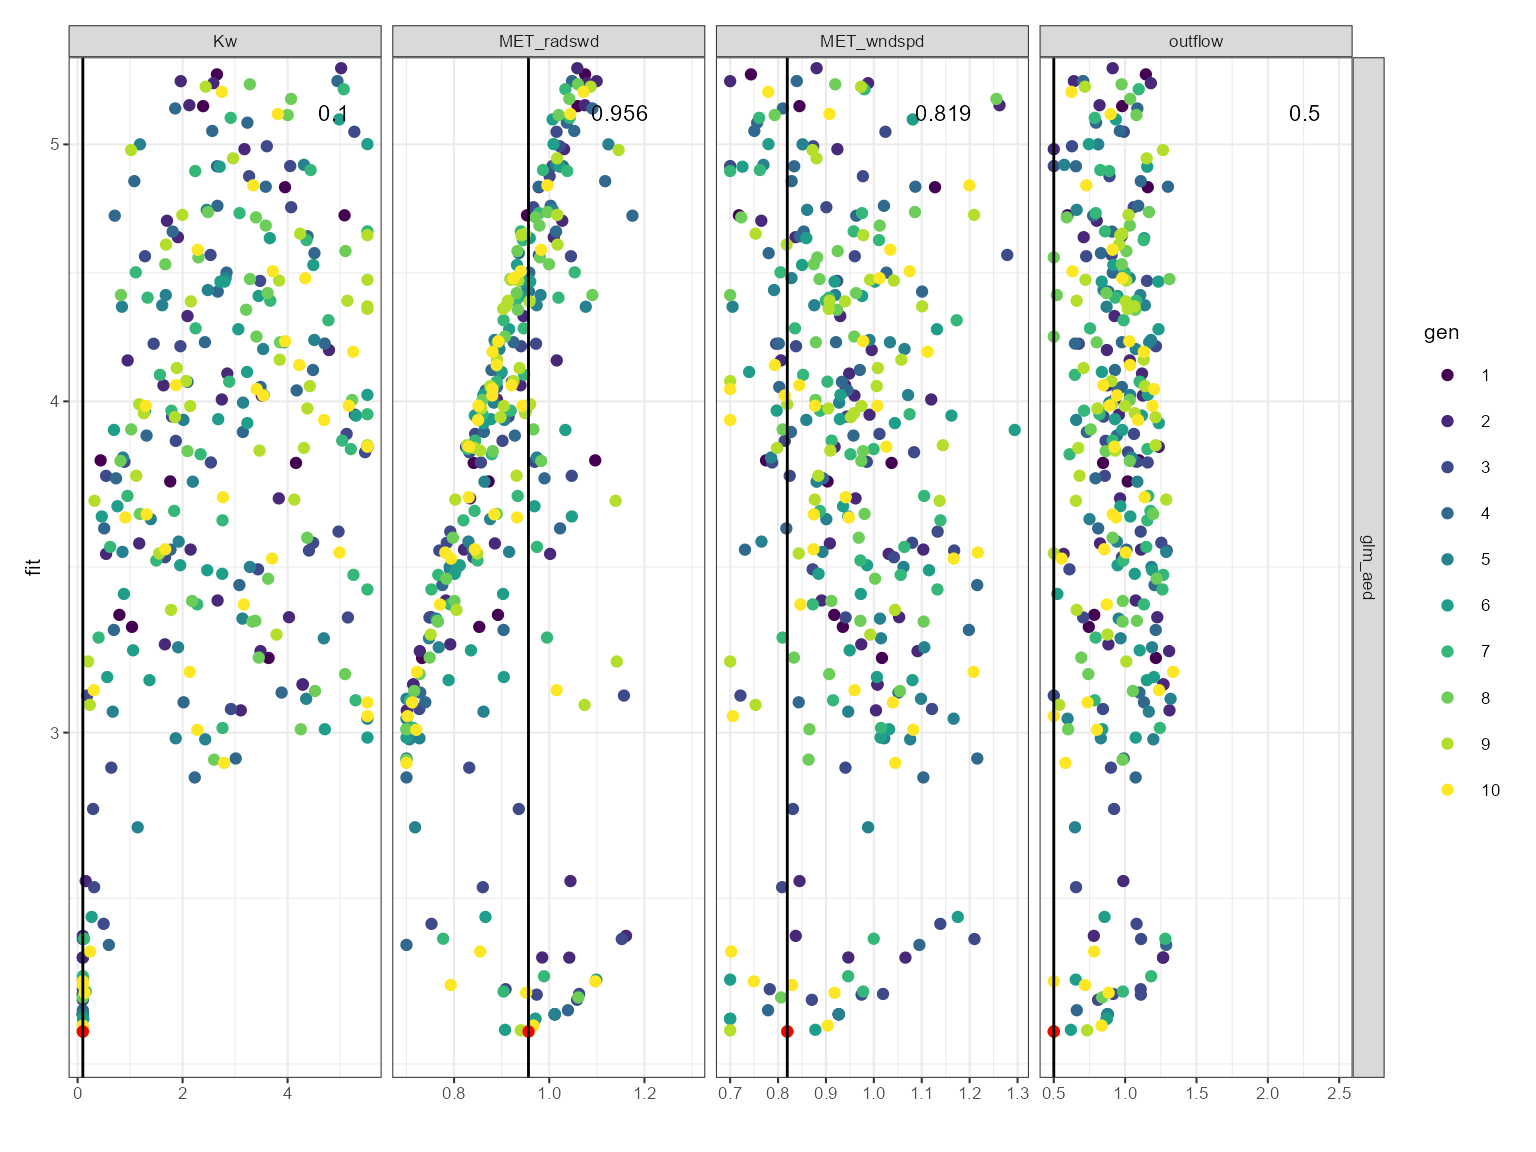
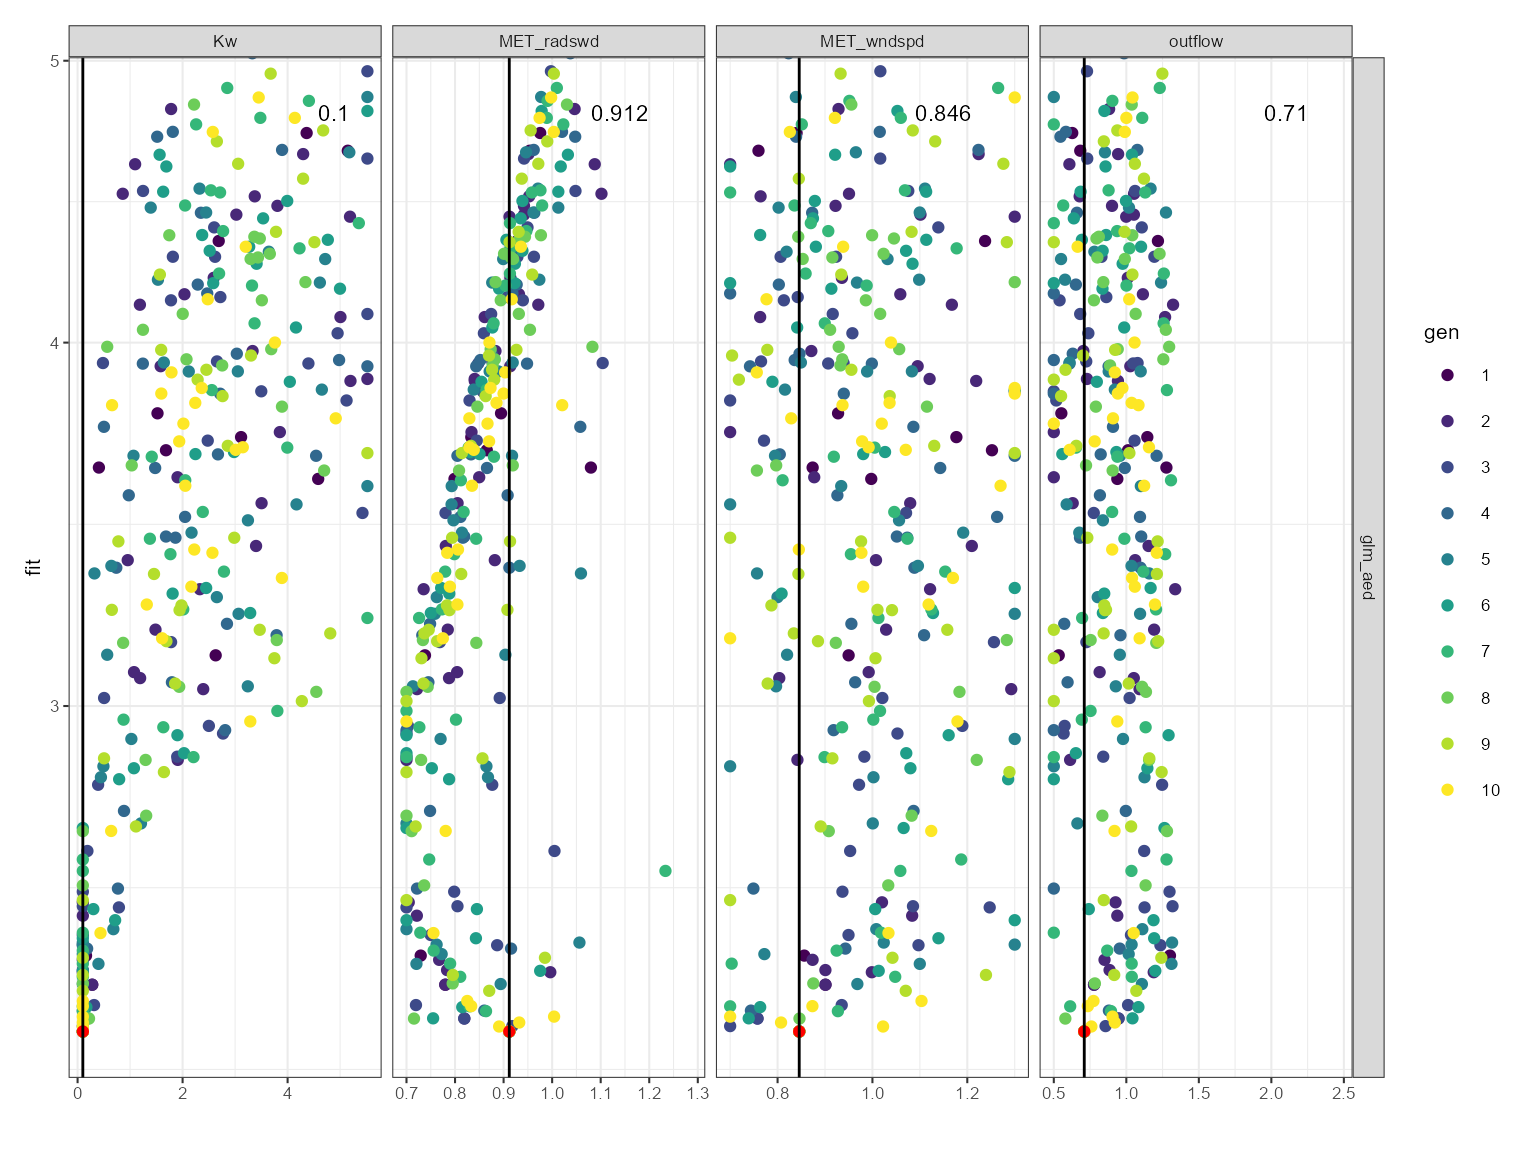
Deploying to gh-pages from @ limnotrack/aemetools@b9abb443e278f7c4fc6b141652a75b2cf75a3b43 🚀

diff --git a/articles/calibrate-aeme.html b/articles/calibrate-aeme.html
@@ -121,9 +121,9 @@ make sure the current model setup is working.</p>
 <code class="sourceCode R"><span><span class="va">aeme_data</span> <span class="op">&lt;-</span> <span class="fu"><a href="https://rdrr.io/pkg/AEME/man/run_aeme.html" class="external-link">run_aeme</a></span><span class="op">(</span>aeme_data <span class="op">=</span> <span class="va">aeme_data</span>, model <span class="op">=</span> <span class="va">model</span>,</span>
 <span>                      verbose <span class="op">=</span> <span class="cn">FALSE</span>, mod_ctrls <span class="op">=</span> <span class="va">mod_ctrls</span>,</span>
 <span>                      path <span class="op">=</span> <span class="va">path</span><span class="op">)</span></span>
-<span><span class="co">#&gt; Running models... (Have you tried parallelizing?) [2023-11-08 02:36:23.91862]</span></span>
-<span><span class="co">#&gt; GLM-AED run successful! [2023-11-08 02:36:24.666513]</span></span>
-<span><span class="co">#&gt; Model run complete![2023-11-08 02:36:24.667352]</span></span>
+<span><span class="co">#&gt; Running models... (Have you tried parallelizing?) [2023-11-08 02:48:46.529333]</span></span>
+<span><span class="co">#&gt; GLM-AED run successful! [2023-11-08 02:48:47.247018]</span></span>
+<span><span class="co">#&gt; Model run complete![2023-11-08 02:48:47.247831]</span></span>
 <span><span class="co">#&gt; Retrieving and formatting temp for model glm_aed</span></span>
 <span><span class="co">#&gt; Retrieving and formatting salt for model glm_aed</span></span>
 <span><span class="fu"><a href="https://rdrr.io/r/graphics/plot.default.html" class="external-link">plot</a></span><span class="op">(</span><span class="va">aeme_data</span><span class="op">)</span></span></code></pre></div>
@@ -228,9 +228,9 @@ but the model output is generate within the lake folder.</p>
 <div class="sourceCode" id="cb7"><pre class="downlit sourceCode r">
 <code class="sourceCode R"><span><span class="fu"><a href="../reference/run_aeme_param.html">run_aeme_param</a></span><span class="op">(</span>aeme_data <span class="op">=</span> <span class="va">aeme_data</span>, param <span class="op">=</span> <span class="va">aeme_parameters</span>,</span>
 <span>                 model <span class="op">=</span> <span class="va">model</span>, path <span class="op">=</span> <span class="va">path</span>, mod_ctrls <span class="op">=</span> <span class="va">mod_ctrls</span><span class="op">)</span></span>
-<span><span class="co">#&gt; Running models... (Have you tried parallelizing?) [2023-11-08 02:36:36.734724]</span></span>
-<span><span class="co">#&gt; GLM-AED run successful! [2023-11-08 02:36:37.461097]</span></span>
-<span><span class="co">#&gt; Model run complete![2023-11-08 02:36:37.461973]</span></span></code></pre></div>
+<span><span class="co">#&gt; Running models... (Have you tried parallelizing?) [2023-11-08 02:48:50.964498]</span></span>
+<span><span class="co">#&gt; GLM-AED run successful! [2023-11-08 02:48:51.687503]</span></span>
+<span><span class="co">#&gt; Model run complete![2023-11-08 02:48:51.688245]</span></span></code></pre></div>
 </div>
 <div class="section level2">
 <h2 id="calibration-setup">Calibration setup<a class="anchor" aria-label="anchor" href="#calibration-setup"></a>
@@ -364,79 +364,79 @@ values.</p>
 <span>                   param <span class="op">=</span> <span class="va">aeme_parameters</span>, model <span class="op">=</span> <span class="va">model</span>,</span>
 <span>                   mod_ctrls <span class="op">=</span> <span class="va">mod_ctrls</span>, FUN <span class="op">=</span> <span class="va">fit</span>, ctrl <span class="op">=</span> <span class="va">ctrl</span>,</span>
 <span>                   vars_sim <span class="op">=</span> <span class="va">vars_sim</span>, weights <span class="op">=</span> <span class="va">weights</span><span class="op">)</span></span>
-<span><span class="co">#&gt; Extracting indices for modelled variables [2023-11-08 02:36:37.792926]</span></span>
-<span><span class="co">#&gt; Complete! [2023-11-08 02:36:38.676282]</span></span>
+<span><span class="co">#&gt; Extracting indices for modelled variables [2023-11-08 02:48:52.016475]</span></span>
+<span><span class="co">#&gt; Complete! [2023-11-08 02:48:52.884192]</span></span>
 <span><span class="co">#&gt; Calibrating in parallel using 1 cores...</span></span>
-<span><span class="co">#&gt; Starting generation 1/10, 40 members. [2023-11-08 02:36:38.94474]</span></span>
+<span><span class="co">#&gt; Starting generation 1/10, 40 members. [2023-11-08 02:48:53.138807]</span></span>
 <span><span class="co">#&gt;        light.Kw MET_wndspd MET_radswd outflow</span></span>
-<span><span class="co">#&gt; mean      2.820     1.0010     0.9999  1.5010</span></span>
-<span><span class="co">#&gt; median    2.768     0.9963     1.0000  1.5010</span></span>
-<span><span class="co">#&gt; sd        1.600     0.1755     0.1755  0.5811</span></span>
-<span><span class="co">#&gt; Best fit: 3.128 (sd: 323.705)</span></span>
-<span><span class="co">#&gt;             Parameters: [4.287, 1.008, 0.714, 1.267]</span></span>
+<span><span class="co">#&gt; mean      2.805     1.0020     1.0000  1.4940</span></span>
+<span><span class="co">#&gt; median    2.750     1.0020     1.0020  1.4870</span></span>
+<span><span class="co">#&gt; sd        1.583     0.1752     0.1742  0.5836</span></span>
+<span><span class="co">#&gt; Best fit: 2.406 (sd: 327.222)</span></span>
+<span><span class="co">#&gt;             Parameters: [0.278, 0.901, 0.78, 0.778]</span></span>
 <span><span class="co">#&gt; Survival rate: 1</span></span>
-<span><span class="co">#&gt; Starting generation 2/10, 40 members. [2023-11-08 02:37:14.639307]</span></span>
+<span><span class="co">#&gt; Starting generation 2/10, 40 members. [2023-11-08 02:49:28.194054]</span></span>
 <span><span class="co">#&gt;        light.Kw MET_wndspd MET_radswd outflow</span></span>
-<span><span class="co">#&gt; mean      2.449     0.9720     0.9304  1.0890</span></span>
-<span><span class="co">#&gt; median    2.227     0.9606     0.9427  1.0210</span></span>
-<span><span class="co">#&gt; sd        1.579     0.1285     0.1268  0.3433</span></span>
-<span><span class="co">#&gt; Best fit: 2.3491 (sd: 211.75)</span></span>
+<span><span class="co">#&gt; mean      2.159     1.0080     0.8562   1.052</span></span>
+<span><span class="co">#&gt; median    1.906     1.0140     0.8452   1.005</span></span>
+<span><span class="co">#&gt; sd        1.694     0.1682     0.1040   0.386</span></span>
+<span><span class="co">#&gt; Best fit: 2.3426 (sd: 208.55)</span></span>
 <span><span class="co">#&gt; Survival rate: 1</span></span>
-<span><span class="co">#&gt; Starting generation 3/10, 40 members. [2023-11-08 02:37:50.617803]</span></span>
+<span><span class="co">#&gt; Starting generation 3/10, 40 members. [2023-11-08 02:50:03.781285]</span></span>
 <span><span class="co">#&gt;        light.Kw MET_wndspd MET_radswd outflow</span></span>
-<span><span class="co">#&gt; mean      2.258     0.9630     0.9394  1.0070</span></span>
-<span><span class="co">#&gt; median    2.108     0.9518     0.9678  0.9839</span></span>
-<span><span class="co">#&gt; sd        1.793     0.1432     0.1142  0.3150</span></span>
-<span><span class="co">#&gt; Best fit: 2.3491 (sd: 164.33)</span></span>
+<span><span class="co">#&gt; mean      2.189     0.9840     0.8795  0.9802</span></span>
+<span><span class="co">#&gt; median    1.798     0.9648     0.8767  0.9791</span></span>
+<span><span class="co">#&gt; sd        1.898     0.1522     0.1173  0.3402</span></span>
+<span><span class="co">#&gt; Best fit: 2.3186 (sd: 184.82)</span></span>
 <span><span class="co">#&gt; Survival rate: 1</span></span>
-<span><span class="co">#&gt; Starting generation 4/10, 40 members. [2023-11-08 02:38:27.390074]</span></span>
+<span><span class="co">#&gt; Starting generation 4/10, 40 members. [2023-11-08 02:50:40.233365]</span></span>
 <span><span class="co">#&gt;        light.Kw MET_wndspd MET_radswd outflow</span></span>
-<span><span class="co">#&gt; mean      2.437     0.9243     0.9315  1.0290</span></span>
-<span><span class="co">#&gt; median    2.610     0.9238     0.9318  0.9762</span></span>
-<span><span class="co">#&gt; sd        1.407     0.1395     0.1318  0.3078</span></span>
-<span><span class="co">#&gt; Best fit: 2.3491 (sd: 194.6)</span></span>
+<span><span class="co">#&gt; mean      2.024     0.9821     0.8777  0.9760</span></span>
+<span><span class="co">#&gt; median    1.805     0.9596     0.8609  0.9314</span></span>
+<span><span class="co">#&gt; sd        1.586     0.1586     0.1001  0.4183</span></span>
+<span><span class="co">#&gt; Best fit: 2.3186 (sd: 241.56)</span></span>
 <span><span class="co">#&gt; Survival rate: 1</span></span>
-<span><span class="co">#&gt; Starting generation 5/10, 40 members. [2023-11-08 02:39:03.962272]</span></span>
+<span><span class="co">#&gt; Starting generation 5/10, 40 members. [2023-11-08 02:51:16.673802]</span></span>
 <span><span class="co">#&gt;        light.Kw MET_wndspd MET_radswd outflow</span></span>
-<span><span class="co">#&gt; mean      2.566     0.9263     0.9203  1.0250</span></span>
-<span><span class="co">#&gt; median    2.470     0.9230     0.8918  1.0400</span></span>
-<span><span class="co">#&gt; sd        1.479     0.1228     0.1467  0.2882</span></span>
-<span><span class="co">#&gt; Best fit: 2.3399 (sd: 172.29)</span></span>
+<span><span class="co">#&gt; mean      2.232     0.9713     0.8807  0.9654</span></span>
+<span><span class="co">#&gt; median    2.144     0.9785     0.8858  0.9968</span></span>
+<span><span class="co">#&gt; sd        1.742     0.1718     0.1111  0.2709</span></span>
+<span><span class="co">#&gt; Best fit: 2.3186 (sd: 139.44)</span></span>
 <span><span class="co">#&gt; Survival rate: 1</span></span>
-<span><span class="co">#&gt; Starting generation 6/10, 40 members. [2023-11-08 02:39:40.490667]</span></span>
+<span><span class="co">#&gt; Starting generation 6/10, 40 members. [2023-11-08 02:51:52.908491]</span></span>
 <span><span class="co">#&gt;        light.Kw MET_wndspd MET_radswd outflow</span></span>
-<span><span class="co">#&gt; mean      2.489     0.9446     0.9307  1.0690</span></span>
-<span><span class="co">#&gt; median    2.574     0.9411     0.9345  0.9732</span></span>
-<span><span class="co">#&gt; sd        1.774     0.1398     0.1147  0.3872</span></span>
-<span><span class="co">#&gt; Best fit: 2.3143 (sd: 199.18)</span></span>
+<span><span class="co">#&gt; mean      2.096     0.9794     0.8703  1.0560</span></span>
+<span><span class="co">#&gt; median    2.125     0.9664     0.8708  0.9801</span></span>
+<span><span class="co">#&gt; sd        1.531     0.1788     0.1080  0.4118</span></span>
+<span><span class="co">#&gt; Best fit: 2.3186 (sd: 239.17)</span></span>
 <span><span class="co">#&gt; Survival rate: 1</span></span>
-<span><span class="co">#&gt; Starting generation 7/10, 40 members. [2023-11-08 02:40:16.422405]</span></span>
+<span><span class="co">#&gt; Starting generation 7/10, 40 members. [2023-11-08 02:52:28.968475]</span></span>
 <span><span class="co">#&gt;        light.Kw MET_wndspd MET_radswd outflow</span></span>
-<span><span class="co">#&gt; mean      2.819     0.9447    0.89740  1.0540</span></span>
-<span><span class="co">#&gt; median    2.760     0.9488    0.90400  1.0860</span></span>
-<span><span class="co">#&gt; sd        1.785     0.1095    0.09297  0.2738</span></span>
-<span><span class="co">#&gt; Best fit: 2.3143 (sd: 202.02)</span></span>
+<span><span class="co">#&gt; mean      2.184     0.9846     0.8779  0.9747</span></span>
+<span><span class="co">#&gt; median    2.233     0.9948     0.8642  0.9791</span></span>
+<span><span class="co">#&gt; sd        1.575     0.1488     0.1200  0.3221</span></span>
+<span><span class="co">#&gt; Best fit: 2.3186 (sd: 130.84)</span></span>
 <span><span class="co">#&gt; Survival rate: 1</span></span>
-<span><span class="co">#&gt; Starting generation 8/10, 40 members. [2023-11-08 02:40:52.524188]</span></span>
+<span><span class="co">#&gt; Starting generation 8/10, 40 members. [2023-11-08 02:53:05.038968]</span></span>
 <span><span class="co">#&gt;        light.Kw MET_wndspd MET_radswd outflow</span></span>
-<span><span class="co">#&gt; mean      2.904     0.9419     0.8941  1.0640</span></span>
-<span><span class="co">#&gt; median    3.307     0.9238     0.9127  1.0200</span></span>
-<span><span class="co">#&gt; sd        1.541     0.1156     0.1277  0.4395</span></span>
-<span><span class="co">#&gt; Best fit: 2.3143 (sd: 223.36)</span></span>
+<span><span class="co">#&gt; mean      2.155     0.9833     0.8770  1.0850</span></span>
+<span><span class="co">#&gt; median    2.030     0.9639     0.8827  1.0550</span></span>
+<span><span class="co">#&gt; sd        1.556     0.1357     0.1193  0.2981</span></span>
+<span><span class="co">#&gt; Best fit: 2.3186 (sd: 225.33)</span></span>
 <span><span class="co">#&gt; Survival rate: 1</span></span>
-<span><span class="co">#&gt; Starting generation 9/10, 40 members. [2023-11-08 02:41:28.799172]</span></span>
+<span><span class="co">#&gt; Starting generation 9/10, 40 members. [2023-11-08 02:53:40.373075]</span></span>
 <span><span class="co">#&gt;        light.Kw MET_wndspd MET_radswd outflow</span></span>
-<span><span class="co">#&gt; mean      2.767     0.9142     0.9534  0.9372</span></span>
-<span><span class="co">#&gt; median    2.298     0.9084     0.9363  0.9614</span></span>
-<span><span class="co">#&gt; sd        1.768     0.1251     0.1065  0.2590</span></span>
-<span><span class="co">#&gt; Best fit: 2.3143 (sd: 130.73)</span></span>
+<span><span class="co">#&gt; mean      2.403     0.9938    0.85080  0.9352</span></span>
+<span><span class="co">#&gt; median    2.346     0.9995    0.85980  0.9304</span></span>
+<span><span class="co">#&gt; sd        1.506     0.1857    0.09963  0.2834</span></span>
+<span><span class="co">#&gt; Best fit: 2.3186 (sd: 146.54)</span></span>
 <span><span class="co">#&gt; Survival rate: 1</span></span>
-<span><span class="co">#&gt; Starting generation 10/10, 40 members. [2023-11-08 02:42:05.530539]</span></span>
+<span><span class="co">#&gt; Starting generation 10/10, 40 members. [2023-11-08 02:54:17.2222]</span></span>
 <span><span class="co">#&gt;        light.Kw MET_wndspd MET_radswd outflow</span></span>
-<span><span class="co">#&gt; mean      2.856     0.9432     0.8901  0.9106</span></span>
-<span><span class="co">#&gt; median    3.148     0.9446     0.8808  0.9048</span></span>
-<span><span class="co">#&gt; sd        1.817     0.1529     0.1250  0.2532</span></span>
-<span><span class="co">#&gt; Best fit: 2.3143 (sd: 128.6)</span></span>
+<span><span class="co">#&gt; mean      2.105     1.0090    0.87570  1.0360</span></span>
+<span><span class="co">#&gt; median    2.195     1.0060    0.87200  1.0100</span></span>
+<span><span class="co">#&gt; sd        1.423     0.1623    0.09727  0.2978</span></span>
+<span><span class="co">#&gt; Best fit: 2.3186 (sd: 208.56)</span></span>
 <span><span class="co">#&gt; Survival rate: 1</span></span></code></pre></div>
 </div>
 <div class="section level2">

diff --git a/articles/download-era5.html b/articles/download-era5.html
@@ -94,8 +94,8 @@ your computer to speed up the download.</p>
 <span><span class="va">met</span> <span class="op">&lt;-</span> <span class="fu"><a href="../reference/get_era5_point.html">get_era5_point</a></span><span class="op">(</span>lat <span class="op">=</span> <span class="va">lat</span>, lon <span class="op">=</span> <span class="va">lon</span>, years <span class="op">=</span> <span class="fl">2000</span><span class="op">:</span><span class="fl">2001</span>,</span>
 <span>                      variables <span class="op">=</span> <span class="va">variables</span>, format <span class="op">=</span> <span class="st">"aeme"</span>, parallel <span class="op">=</span> <span class="cn">TRUE</span><span class="op">)</span></span>
 <span><span class="co">#&gt; Auto-refreshing stale OAuth token.</span></span>
-<span><span class="co">#&gt; Downloading ERA5 variables in parallel... [2023-11-08 02:42:54.430071]</span></span>
-<span><span class="co">#&gt; Finished downloading ERA5 variables! [2023-11-08 02:43:05.488447]</span></span>
+<span><span class="co">#&gt; Downloading ERA5 variables in parallel... [2023-11-08 02:55:04.364579]</span></span>
+<span><span class="co">#&gt; Finished downloading ERA5 variables! [2023-11-08 02:55:25.193539]</span></span>
 <span><span class="fu"><a href="https://rdrr.io/r/base/summary.html" class="external-link">summary</a></span><span class="op">(</span><span class="va">met</span><span class="op">)</span></span>
 <span><span class="co">#&gt;       Date              MET_tmpair       MET_pprain     </span></span>
 <span><span class="co">#&gt;  Min.   :2000-01-01   Min.   : 3.407   Min.   : 0.0000  </span></span>
